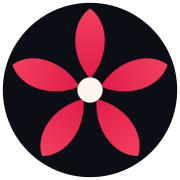
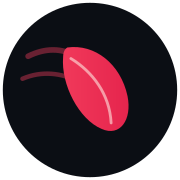
Replace tag-popup with a floating action menu (FAB) (#9)
* Redesign favicon as a single windblown petal

Replace the five-petal blossom with one asymmetric, tilted petal plus
faint trailing swoosh lines, evoking a petal caught mid-flutter in
the wind rather than a static flower glyph.

* Replace tag-popup with a floating action menu (FAB)

- Bottom-left circle hub: '+' rotates to '×' when open
- Two child circles fan upward: Tag (closest to hub) + Search (above)
- Selecting text auto-opens the FAB and lights up the Tag button;
  clicking it saves the tag as before with a toast confirmation
- Search button opens a slide-down bar at the top with live
  highlight-all, match count, and prev/next navigation (Enter/↑↓)
- FAB closes on hub tap, Escape in search, or click outside

---------

Changed region(s): [[0.0556, 0.0278, 0.9444, 0.8889]]

diff --git a/styles.css b/styles.css
@@ -426,27 +426,145 @@ body.reading { background: transparent; }
 }
 .to-top.show { display: flex; }
 
-/* selection-to-tag popup: fixed near the bottom of the screen, unaffected
-   by scrolling or where the selection happens to be on the page. */
-.tag-popup {
+/* ---------- Floating action menu (FAB) ---------- */
+.fab {
   position: fixed;
-  left: 50%;
-  bottom: 28px;
-  display: none;
-  transform: translateX(-50%);
+  bottom: 24px;
+  left: 24px;
+  z-index: 60;
+  display: flex;
+  flex-direction: column;
+  align-items: center;
+  gap: 0;
+}
+.fab-hub {
+  width: 52px;
+  height: 52px;
+  border-radius: 50%;
   background: var(--accent);
   color: #fff;
   border: none;
-  border-radius: 999px;
-  padding: 10px 20px;
-  font-size: 14px;
-  font-weight: 600;
+  font-size: 26px;
+  line-height: 1;
   cursor: pointer;
-  z-index: 70;
-  box-shadow: 0 8px 20px rgba(0, 0, 0, 0.35);
-  white-space: nowrap;
+  display: flex;
+  align-items: center;
+  justify-content: center;
+  box-shadow: 0 6px 20px rgba(0, 0, 0, 0.45);
+  transition: transform 0.3s cubic-bezier(.4,0,.2,1), background 0.2s;
+  position: relative;
+  z-index: 1;
 }
-.tag-popup.show { display: block; }
+.fab-hub:hover { background: var(--accent-soft); }
+.fab.open .fab-hub { transform: rotate(135deg); }
+
+.fab-items {
+  display: flex;
+  flex-direction: column;
+  align-items: center;
+  gap: 12px;
+  padding-bottom: 14px;
+  position: absolute;
+  bottom: 100%;
+  left: 50%;
+  transform: translateX(-50%);
+}
+.fab-item {
+  width: 44px;
+  height: 44px;
+  border-radius: 50%;
+  background: var(--bg-elev2);
+  border: 1px solid var(--border);
+  color: var(--muted);
+  cursor: pointer;
+  display: flex;
+  align-items: center;
+  justify-content: center;
+  box-shadow: 0 4px 14px rgba(0, 0, 0, 0.35);
+  opacity: 0;
+  transform: translateY(12px) scale(0.8);
+  pointer-events: none;
+  transition: opacity 0.22s ease, transform 0.22s ease,
+              background 0.15s, color 0.15s;
+}
+.fab-item svg { width: 18px; height: 18px; }
+.fab.open .fab-item {
+  opacity: 1;
+  transform: none;
+  pointer-events: auto;
+}
+/* stagger: tag (child 2) appears slightly before search (child 1) */
+.fab.open .fab-item:nth-child(2) { transition-delay: 0.04s; }
+.fab.open .fab-item:nth-child(1) { transition-delay: 0.10s; }
+
+.fab-item:hover { background: #232c40; color: var(--text); }
+/* tag button lights up when text is selected */
+#fabTag.available { background: var(--accent); color: #fff; border-color: var(--accent); }
+#fabTag.available:hover { background: var(--accent-soft); }
+/* dim tag when unavailable */
+#fabTag:not(.available) { opacity: 0; }
+.fab.open #fabTag:not(.available) { opacity: 0.4; }
+
+/* ---------- In-page search bar ---------- */
+.search-bar {
+  position: fixed;
+  top: 0;
+  left: 0;
+  right: 0;
+  z-index: 65;
+  background: var(--bg-elev);
+  border-bottom: 1px solid var(--border);
+  padding: 10px 14px;
+  display: flex;
+  align-items: center;
+  gap: 8px;
+  transform: translateY(-100%);
+  transition: transform 0.25s cubic-bezier(.4,0,.2,1);
+  box-shadow: 0 4px 20px rgba(0, 0, 0, 0.35);
+}
+.search-bar.open { transform: translateY(0); }
+.search-bar-input {
+  flex: 1;
+  background: var(--bg);
+  border: 1px solid var(--border);
+  color: var(--text);
+  border-radius: 8px;
+  padding: 8px 12px;
+  font-size: 14px;
+  outline: none;
+  min-width: 0;
+}
+.search-bar-input:focus { border-color: var(--accent); }
+.search-bar-count {
+  font-size: 13px;
+  color: var(--muted);
+  white-space: nowrap;
+  min-width: 56px;
+  text-align: center;
+}
+.search-bar-btn {
+  background: var(--bg-elev2);
+  border: 1px solid var(--border);
+  color: var(--text);
+  border-radius: 8px;
+  padding: 6px 11px;
+  cursor: pointer;
+  font-size: 14px;
+  flex-shrink: 0;
+  transition: background 0.15s;
+}
+.search-bar-btn:hover { background: #232c40; }
+/* highlight all matches */
+.search-hl {
+  background: rgba(225, 29, 72, 0.22);
+  border-radius: 2px;
+  outline: 1px solid rgba(225, 29, 72, 0.35);
+}
+.search-hl.current {
+  background: rgba(225, 29, 72, 0.6);
+  color: #fff;
+  outline-color: var(--accent);
+}
 
 .tag-highlight {
   animation: tagFlash 1.7s ease-out;

diff --git a/reader.js b/reader.js
@@ -16,8 +16,17 @@
   const drawerClose = document.getElementById("drawerClose");
   const drawerSearch = document.getElementById("drawerSearch");
   const drawerList = document.getElementById("drawerList");
-  const tagPopup = document.getElementById("tagPopup");
   const tagToast = document.getElementById("tagToast");
+  const fab = document.getElementById("fab");
+  const fabHub = document.getElementById("fabHub");
+  const fabTag = document.getElementById("fabTag");
+  const fabSearch = document.getElementById("fabSearch");
+  const searchBar = document.getElementById("searchBar");
+  const searchInput = document.getElementById("searchInput");
+  const searchCount = document.getElementById("searchCount");
+  const searchPrev = document.getElementById("searchPrev");
+  const searchNext = document.getElementById("searchNext");
+  const searchClose = document.getElementById("searchClose");
 
   const params = new URLSearchParams(location.search);
   const wantChapter = Number(params.get("chapter"));
@@ -381,31 +390,128 @@
     return true;
   }
 
+  // ─── FAB open/close ───────────────────────────────────────────────────────
+  let fabOpen = false;
+  function openFab() { fabOpen = true; fab.classList.add("open"); }
+  function closeFab() { fabOpen = false; fab.classList.remove("open"); }
+  fabHub.addEventListener("click", () => fabOpen ? closeFab() : openFab());
+
+  // Close FAB when clicking outside it, but not inside the reader (those
+  // clicks may be text selections that immediately re-open it anyway).
+  document.addEventListener("click", (e) => {
+    if (!fabOpen) return;
+    if (fab.contains(e.target) || reader.contains(e.target)) return;
+    closeFab();
+  }, true);
+
+  // ─── In-page search ───────────────────────────────────────────────────────
+  let searchHighlights = [];
+  let searchMatchIdx = -1;
+
+  function clearSearchHighlights() {
+    for (const sp of searchHighlights) {
+      const parent = sp.parentNode;
+      if (!parent) continue;
+      while (sp.firstChild) parent.insertBefore(sp.firstChild, sp);
+      parent.removeChild(sp);
+      parent.normalize();
+    }
+    searchHighlights = [];
+    searchMatchIdx = -1;
+  }
+
+  function openSearch() {
+    closeFab();
+    searchBar.classList.add("open");
+    requestAnimationFrame(() => searchInput.focus());
+  }
+
+  function closeSearch() {
+    searchBar.classList.remove("open");
+    clearSearchHighlights();
+    searchInput.value = "";
+    searchCount.textContent = "";
+  }
+
+  function runSearch(query) {
+    clearSearchHighlights();
+    if (!query) { searchCount.textContent = ""; return; }
+    const q = query.toLowerCase();
+    for (const cont of reader.querySelectorAll(".chapter-text")) {
+      const { nodes, fullText } = buildTextWalk(cont);
+      const lower = fullText.toLowerCase();
+      let idx = 0;
+      for (;;) {
+        const pos = lower.indexOf(q, idx);
+        if (pos === -1) break;
+        const mapIdx = (offset) => {
+          for (const n of nodes)
+            if (offset >= n.start && offset <= n.start + n.node.nodeValue.length)
+              return { node: n.node, offset: offset - n.start };
+          return null;
+        };
+        const s = mapIdx(pos), e = mapIdx(pos + query.length);
+        if (s && e) {
+          const range = document.createRange();
+          range.setStart(s.node, s.offset);
+          range.setEnd(e.node, e.offset);
+          const span = document.createElement("span");
+          span.className = "search-hl";
+          try { range.surroundContents(span); searchHighlights.push(span); } catch (_) {}
+        }
+        idx = pos + 1;
+      }
+    }
+    if (searchHighlights.length) goToSearchMatch(0);
+    else searchCount.textContent = "Không tìm thấy";
+  }
+
+  function goToSearchMatch(idx) {
+    if (!searchHighlights.length) return;
+    if (searchMatchIdx >= 0) searchHighlights[searchMatchIdx].classList.remove("current");
+    searchMatchIdx = ((idx % searchHighlights.length) + searchHighlights.length) % searchHighlights.length;
+    const el = searchHighlights[searchMatchIdx];
+    el.classList.add("current");
+    el.scrollIntoView({ behavior: "smooth", block: "center" });
+    searchCount.textContent = `${searchMatchIdx + 1} / ${searchHighlights.length}`;
+  }
+
+  let searchTimer = null;
+  searchInput.addEventListener("input", () => {
+    clearTimeout(searchTimer);
+    searchTimer = setTimeout(() => runSearch(searchInput.value.trim()), 200);
+  });
+  searchInput.addEventListener("keydown", (e) => {
+    if (e.key === "Enter") goToSearchMatch(searchMatchIdx + (e.shiftKey ? -1 : 1));
+    if (e.key === "Escape") closeSearch();
+  });
+  searchNext.addEventListener("click", () => goToSearchMatch(searchMatchIdx + 1));
+  searchPrev.addEventListener("click", () => goToSearchMatch(searchMatchIdx - 1));
+  searchClose.addEventListener("click", closeSearch);
+  fabSearch.addEventListener("mousedown", (e) => e.preventDefault());
+  fabSearch.addEventListener("click", openSearch);
+
+  // ─── Tag (save selected position) ─────────────────────────────────────────
   let pendingRange = null;
   let selectionTimer = null;
   let interactingWithPopup = false;
 
-  function hideTagPopup() {
-    tagPopup.classList.remove("show");
+  function clearPendingTag() {
+    fabTag.classList.remove("available");
     pendingRange = null;
   }
 
   function handleSelection() {
     if (interactingWithPopup) return;
     const sel = window.getSelection();
-    if (!sel || sel.isCollapsed || sel.rangeCount === 0) {
-      hideTagPopup();
-      return;
-    }
+    if (!sel || sel.isCollapsed || sel.rangeCount === 0) { clearPendingTag(); return; }
     const range = sel.getRangeAt(0);
     const container = closestChapterText(range.startContainer);
     const text = sel.toString().trim();
-    if (!container || text.length < 2) {
-      hideTagPopup();
-      return;
-    }
+    if (!container || text.length < 2) { clearPendingTag(); return; }
     pendingRange = range.cloneRange();
-    tagPopup.classList.add("show");
+    fabTag.classList.add("available");
+    openFab();
   }
 
   document.addEventListener("selectionchange", () => {
@@ -415,22 +521,17 @@
   reader.addEventListener("mouseup", handleSelection);
   reader.addEventListener("touchend", handleSelection);
 
-  // Once the user starts pressing the popup, lock out handleSelection() so a
-  // selection collapsing under the tap (native on touch, occasional on
-  // desktop) can't null pendingRange before the click/tap is processed.
-  function lockPopup(e) {
-    e.preventDefault();
-    interactingWithPopup = true;
-  }
-  tagPopup.addEventListener("mousedown", lockPopup);
-  tagPopup.addEventListener("touchstart", lockPopup, { passive: false });
+  fabTag.addEventListener("mousedown", (e) => { e.preventDefault(); interactingWithPopup = true; });
+  fabTag.addEventListener("touchstart", (e) => { e.preventDefault(); interactingWithPopup = true; }, { passive: false });
 
-  tagPopup.addEventListener("click", () => {
+  fabTag.addEventListener("click", () => {
     interactingWithPopup = false;
+    if (!fabTag.classList.contains("available")) return;
     const range = pendingRange;
     if (!range) return;
     const container = closestChapterText(range.startContainer);
-    hideTagPopup();
+    clearPendingTag();
+    closeFab();
     window.getSelection().removeAllRanges();
     if (!container) return;
     const chapter = Number(container.dataset.chapter);

diff --git a/reader.html b/reader.html
@@ -27,7 +27,29 @@
     </button>
   </header>
 
-  <button class="tag-popup" id="tagPopup" type="button">Đánh dấu</button>
+  <!-- Floating action menu (bottom-left) -->
+  <div class="fab" id="fab">
+    <div class="fab-items">
+      <button class="fab-item" id="fabSearch" title="Tìm trong trang">
+        <svg viewBox="0 0 20 20" fill="none" stroke="currentColor" stroke-width="2.2" stroke-linecap="round"><circle cx="8.5" cy="8.5" r="5.5"/><line x1="13" y1="13" x2="18" y2="18"/></svg>
+      </button>
+      <button class="fab-item" id="fabTag" title="Đánh dấu vị trí">
+        <svg viewBox="0 0 20 20" fill="none" stroke="currentColor" stroke-width="2.2" stroke-linecap="round" stroke-linejoin="round"><path d="M5 2h10a1 1 0 0 1 1 1v15l-6-4-6 4V3a1 1 0 0 1 1-1z"/></svg>
+      </button>
+    </div>
+    <button class="fab-hub" id="fabHub" title="Menu">+</button>
+  </div>
+
+  <!-- Slide-down in-page search bar -->
+  <div class="search-bar" id="searchBar">
+    <button class="search-bar-btn" id="searchClose">✕</button>
+    <input class="search-bar-input" id="searchInput" type="search"
+           placeholder="Tìm trong trang…" autocomplete="off" />
+    <span class="search-bar-count" id="searchCount"></span>
+    <button class="search-bar-btn" id="searchPrev" title="Kết quả trước">↑</button>
+    <button class="search-bar-btn" id="searchNext" title="Kết quả tiếp">↓</button>
+  </div>
+
   <div class="tag-toast" id="tagToast"></div>
 
   <div class="drawer-overlay" id="drawerOverlay"></div>